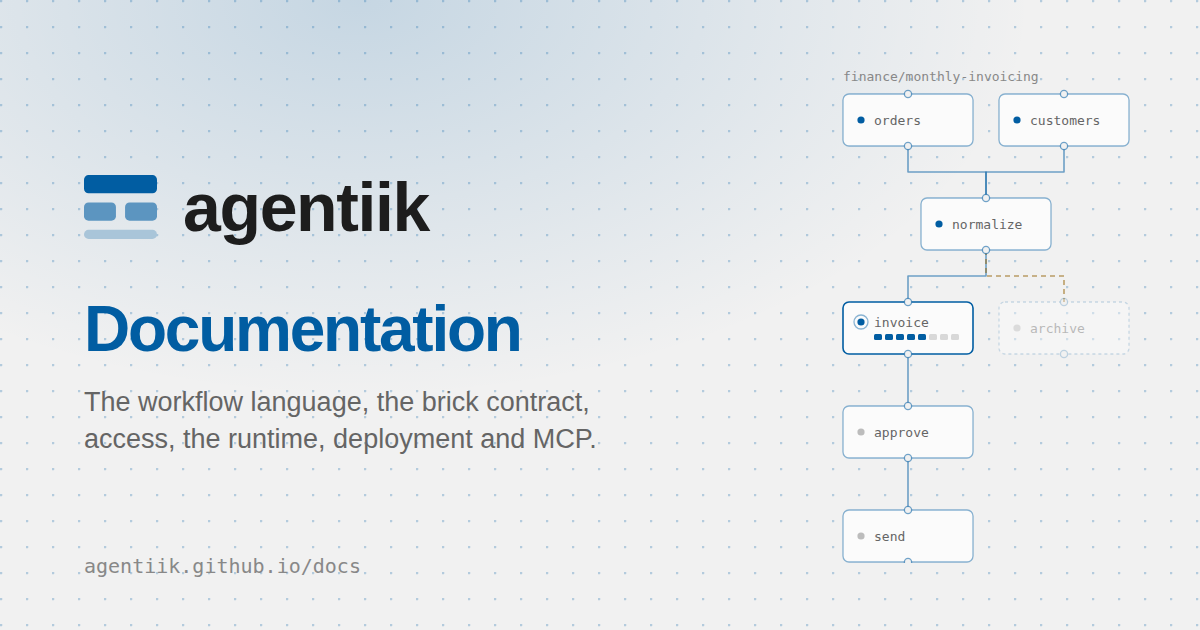
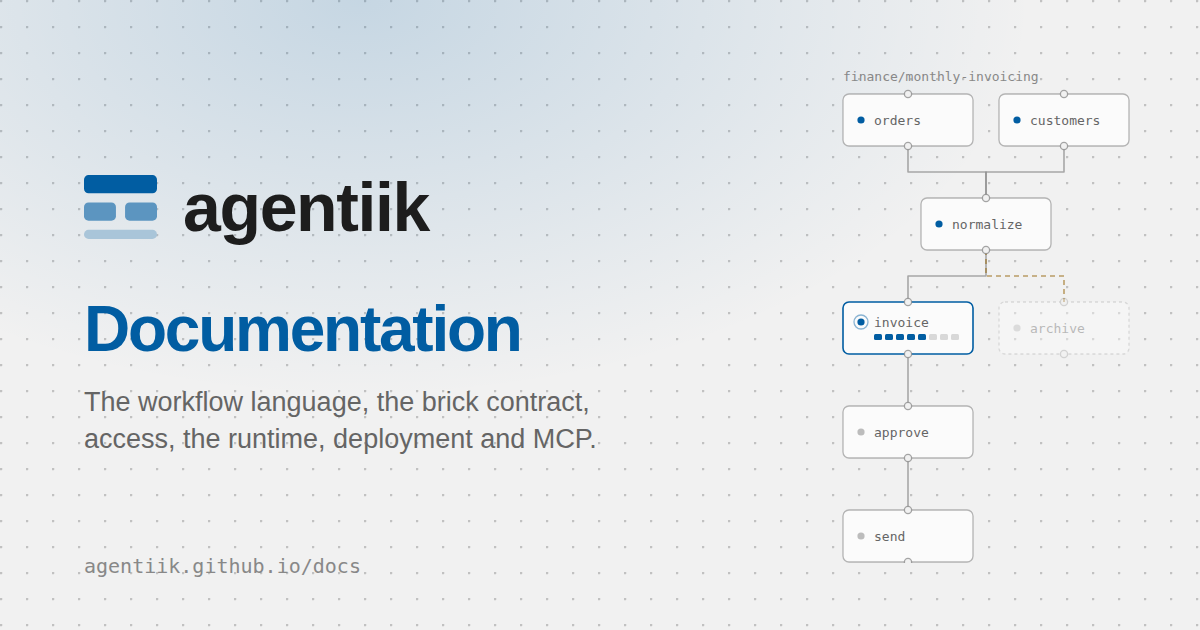
Keep the blue for the halo and what matters, and the site's other fills neutral

diff --git a/index.html b/index.html
@@ -112,7 +112,7 @@ a:focus-visible{outline:2px solid var(--accent);outline-offset:3px;border-radius
   transform:translateX(-50%);
   background:
     radial-gradient(70% 60% at 50% 0%, color-mix(in srgb, var(--accent) 20%, transparent), transparent 72%),
-    radial-gradient(circle at 1px 1px, color-mix(in srgb, var(--accent) 26%, transparent) 1px, transparent 1.4px) 0 0 / 22px 22px;
+    radial-gradient(circle at 1px 1px, color-mix(in srgb, var(--faint) 45%, transparent) 1px, transparent 1.4px) 0 0 / 22px 22px;
   -webkit-mask-image:linear-gradient(to bottom, #000 62%, transparent);
           mask-image:linear-gradient(to bottom, #000 62%, transparent);
 }
@@ -147,12 +147,12 @@ a:focus-visible{outline:2px solid var(--accent);outline-offset:3px;border-radius
 .sk-node{opacity:0;transition:opacity .6s ease}
 .sk-node.on{opacity:1}
 .sk-node.skip{opacity:.38}
-.sk-box{fill:color-mix(in srgb, var(--surface) 84%, transparent);stroke:color-mix(in srgb, var(--accent) 42%, transparent);stroke-width:1.2;transition:stroke .3s ease}
+.sk-box{fill:color-mix(in srgb, var(--surface) 84%, transparent);stroke:color-mix(in srgb, var(--faint) 60%, transparent);stroke-width:1.2;transition:stroke .3s ease}
 .sk-node.skip .sk-box{stroke-dasharray:3 3}
 .sk-name{font:500 11px "JetBrains Mono",ui-monospace,monospace;fill:var(--muted)}
 .sk-dot{fill:color-mix(in srgb, var(--faint) 55%, transparent);transition:fill .3s ease}
-.sk-port{fill:var(--paper);stroke:color-mix(in srgb, var(--accent) 55%, transparent);stroke-width:1.2}
-.sk-edge{fill:none;stroke:color-mix(in srgb, var(--accent) 50%, transparent);stroke-width:1.4;stroke-linejoin:round;transition:stroke-dashoffset .75s cubic-bezier(.4,0,.2,1)}
+.sk-port{fill:var(--paper);stroke:color-mix(in srgb, var(--faint) 75%, transparent);stroke-width:1.2}
+.sk-edge{fill:none;stroke:color-mix(in srgb, var(--faint) 70%, transparent);stroke-width:1.4;stroke-linejoin:round;transition:stroke-dashoffset .75s cubic-bezier(.4,0,.2,1)}
 /* A rejected port's edge is dashed, so it fades in rather than drawing itself. */
 .sk-edge.rej{stroke:color-mix(in srgb, var(--wait) 60%, transparent);stroke-dasharray:4 3;opacity:0;transition:opacity .6s ease}
 .sk-edge.rej.on{opacity:1}

diff --git a/brand/social.html b/brand/social.html
@@ -26,7 +26,7 @@ body{
   color:var(--ink);
   background:
     radial-gradient(80% 90% at 30% 0%, color-mix(in srgb, var(--accent) 18%, transparent), transparent 70%),
-    radial-gradient(circle at 1px 1px, color-mix(in srgb, var(--accent) 26%, transparent) 1.2px, transparent 1.7px) 0 0 / 26px 26px,
+    radial-gradient(circle at 1px 1px, color-mix(in srgb, var(--faint) 45%, transparent) 1.2px, transparent 1.7px) 0 0 / 26px 26px,
     var(--paper);
 }
 .text{position:absolute;left:84px;top:0;bottom:0;width:640px;display:flex;flex-direction:column;justify-content:center}
@@ -40,7 +40,7 @@ p{margin:22px 0 0;max-width:560px;font-size:27px;line-height:1.35;color:var(--mu
 .url{position:absolute;left:84px;bottom:52px;font:500 20px "JetBrains Mono",ui-monospace,monospace;color:var(--faint)}
 .sketch{position:absolute;right:70px;top:50%;transform:translateY(-50%)}
 .sk-title{font:500 13px "JetBrains Mono",ui-monospace,monospace;fill:var(--faint)}
-.sk-box{fill:var(--surface);stroke:color-mix(in srgb, var(--accent) 45%, transparent);stroke-width:1.3}
+.sk-box{fill:var(--surface);stroke:color-mix(in srgb, var(--faint) 60%, transparent);stroke-width:1.3}
 .run .sk-box{stroke:var(--accent);stroke-width:1.6}
 .wait .sk-box{stroke:var(--wait);stroke-width:1.6}
 .skip{opacity:.4}
@@ -50,8 +50,8 @@ p{margin:22px 0 0;max-width:560px;font-size:27px;line-height:1.35;color:var(--mu
 .done .sk-dot,.run .sk-dot{fill:var(--accent)}
 .wait .sk-dot{fill:var(--wait)}
 .sk-ring{fill:none;stroke:var(--accent);stroke-width:1.3;opacity:.45}
-.sk-port{fill:var(--paper);stroke:color-mix(in srgb, var(--accent) 55%, transparent);stroke-width:1.3}
-.sk-edge{fill:none;stroke:color-mix(in srgb, var(--accent) 55%, transparent);stroke-width:1.6;stroke-linejoin:round}
+.sk-port{fill:var(--paper);stroke:color-mix(in srgb, var(--faint) 75%, transparent);stroke-width:1.3}
+.sk-edge{fill:none;stroke:color-mix(in srgb, var(--faint) 70%, transparent);stroke-width:1.6;stroke-linejoin:round}
 .sk-edge.rej{stroke:color-mix(in srgb, var(--wait) 60%, transparent);stroke-dasharray:5 4}
 .sk-cell{fill:color-mix(in srgb, var(--faint) 30%, transparent)}
 .sk-cell.on{fill:var(--accent)}

diff --git a/docs/index.html b/docs/index.html
@@ -635,7 +635,7 @@ th{
 td{padding:11px 14px;border-bottom:1px solid var(--line);vertical-align:top}
 tr:last-child td{border-bottom:0}
 tbody tr{transition:background-color .1s ease}
-tbody tr:hover{background:color-mix(in srgb,var(--accent-soft) 45%,transparent)}
+tbody tr:hover{background:var(--sunken)}
 /* The first column names things. A name never breaks inside itself, but a cell of several
    words wraps, so one long cell cannot take the width of the whole table. */
 td:first-child{
@@ -818,7 +818,7 @@ figure[data-zoom] .figbody,figure[data-zoom] > .mock,figure[data-zoom] > img{cur
 /* ---------- Callouts and the end ---------- */
 .decision{
   border-left:3px solid var(--accent);
-  background:var(--accent-soft);
+  background:var(--surface);
   border-radius:0 var(--radius) var(--radius) 0;
   padding:14px 18px;
   margin:1.5em 0;

diff --git a/docs/roadmap/index.html b/docs/roadmap/index.html
@@ -635,7 +635,7 @@ th{
 td{padding:11px 14px;border-bottom:1px solid var(--line);vertical-align:top}
 tr:last-child td{border-bottom:0}
 tbody tr{transition:background-color .1s ease}
-tbody tr:hover{background:color-mix(in srgb,var(--accent-soft) 45%,transparent)}
+tbody tr:hover{background:var(--sunken)}
 /* The first column names things. A name never breaks inside itself, but a cell of several
    words wraps, so one long cell cannot take the width of the whole table. */
 td:first-child{
@@ -818,7 +818,7 @@ figure[data-zoom] .figbody,figure[data-zoom] > .mock,figure[data-zoom] > img{cur
 /* ---------- Callouts and the end ---------- */
 .decision{
   border-left:3px solid var(--accent);
-  background:var(--accent-soft);
+  background:var(--surface);
   border-radius:0 var(--radius) var(--radius) 0;
   padding:14px 18px;
   margin:1.5em 0;
